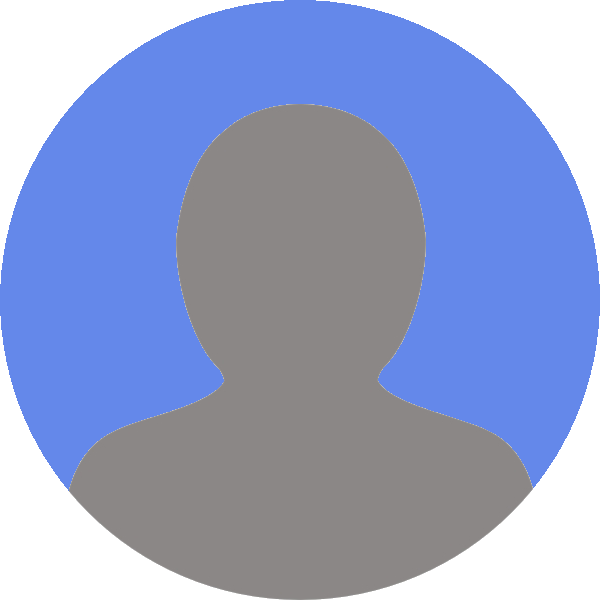
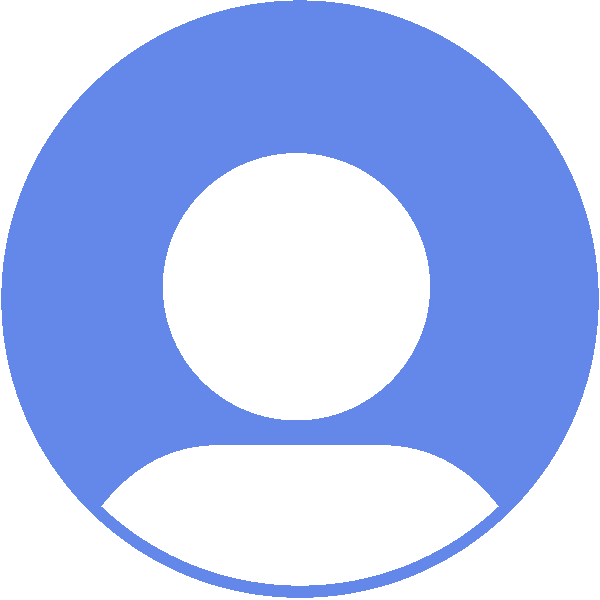
added references to images

diff --git a/chat-page/script.js b/chat-page/script.js
@@ -1,3 +1,12 @@
+/*
+    The project used the following images:
+    https://commons.wikimedia.org/wiki/File:Eo_circle_blue_arrow-up.svg - Arrow Button Image
+    https://www.onlinewebfonts.com/icon/150873 - Loading Icon Image
+    https://www.svgrepo.com/svg/365892/x-square-thin - X Button Image
+    https://www.istockphoto.com/vector/phone-call-buttons-accept-and-reject-vector-gm1177913248-329023299 - Accept Call Button
+    https://en.wikipedia.org/wiki/File:Default_pfp.svg - Blue and Green Person Images
+*/
+
 //First we declare all the references that we are going to use
 const textArea = document.getElementById("chatInput");
 const arrowButton = document.getElementById("arrow");

diff --git a/node-webrtc-server/server.js b/node-webrtc-server/server.js
@@ -25,8 +25,6 @@ var http = require('http');
 //Create a http server with a simple request listener
   //A http server is simply a computer program that uses the response/request model implemented by the World Wide Web and the HTTP
 var server = http.Server(app,function (request, response) {
-    console.log("hi");
-
     //Log the time of the request
     console.log(new Date() + ' Received request for ' + request.url);
     response.writeHead(200);
